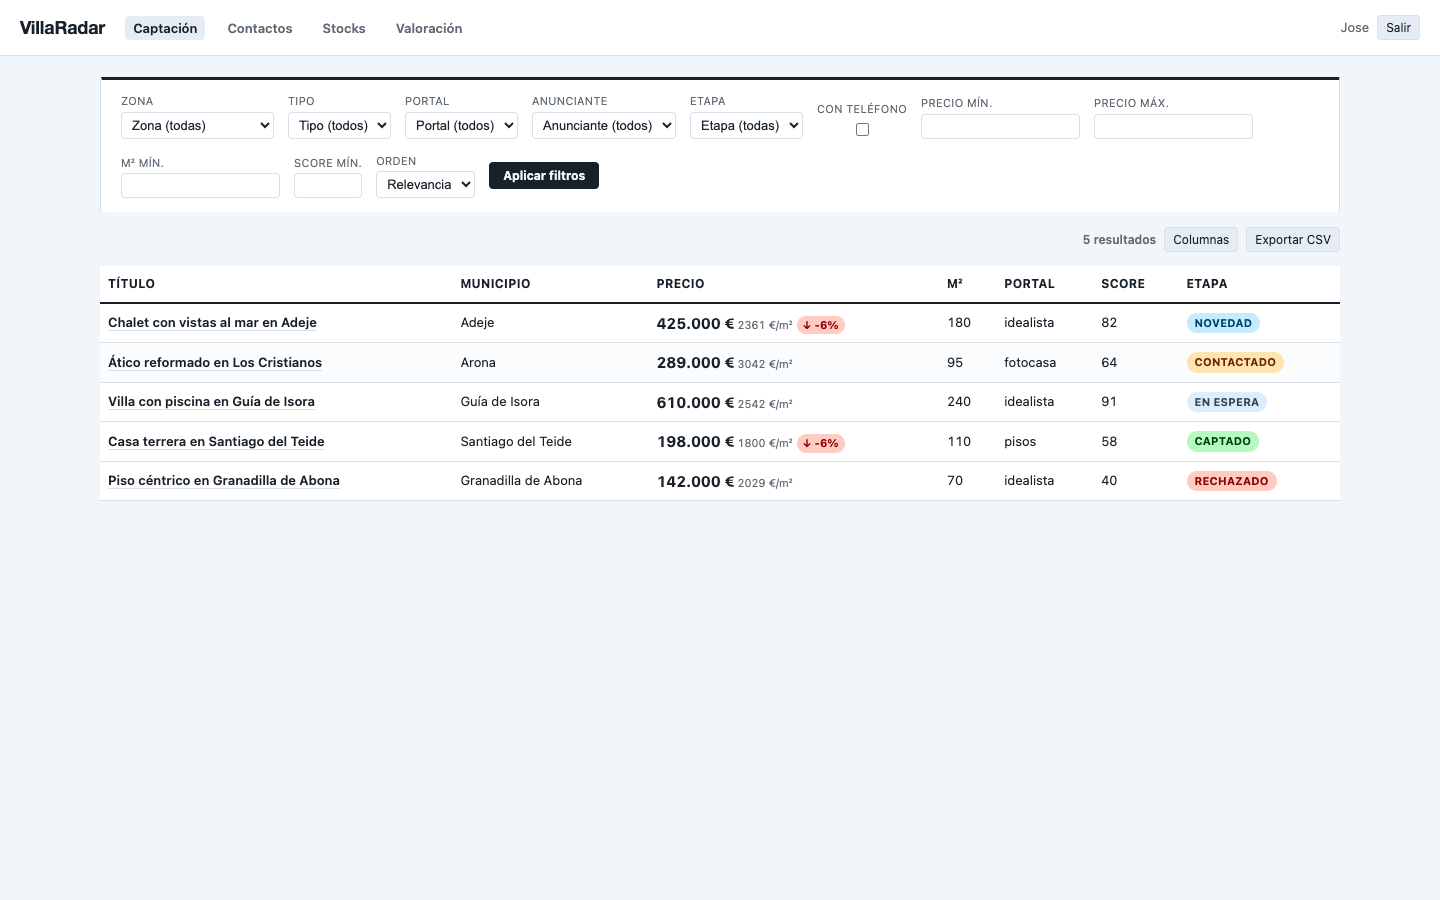
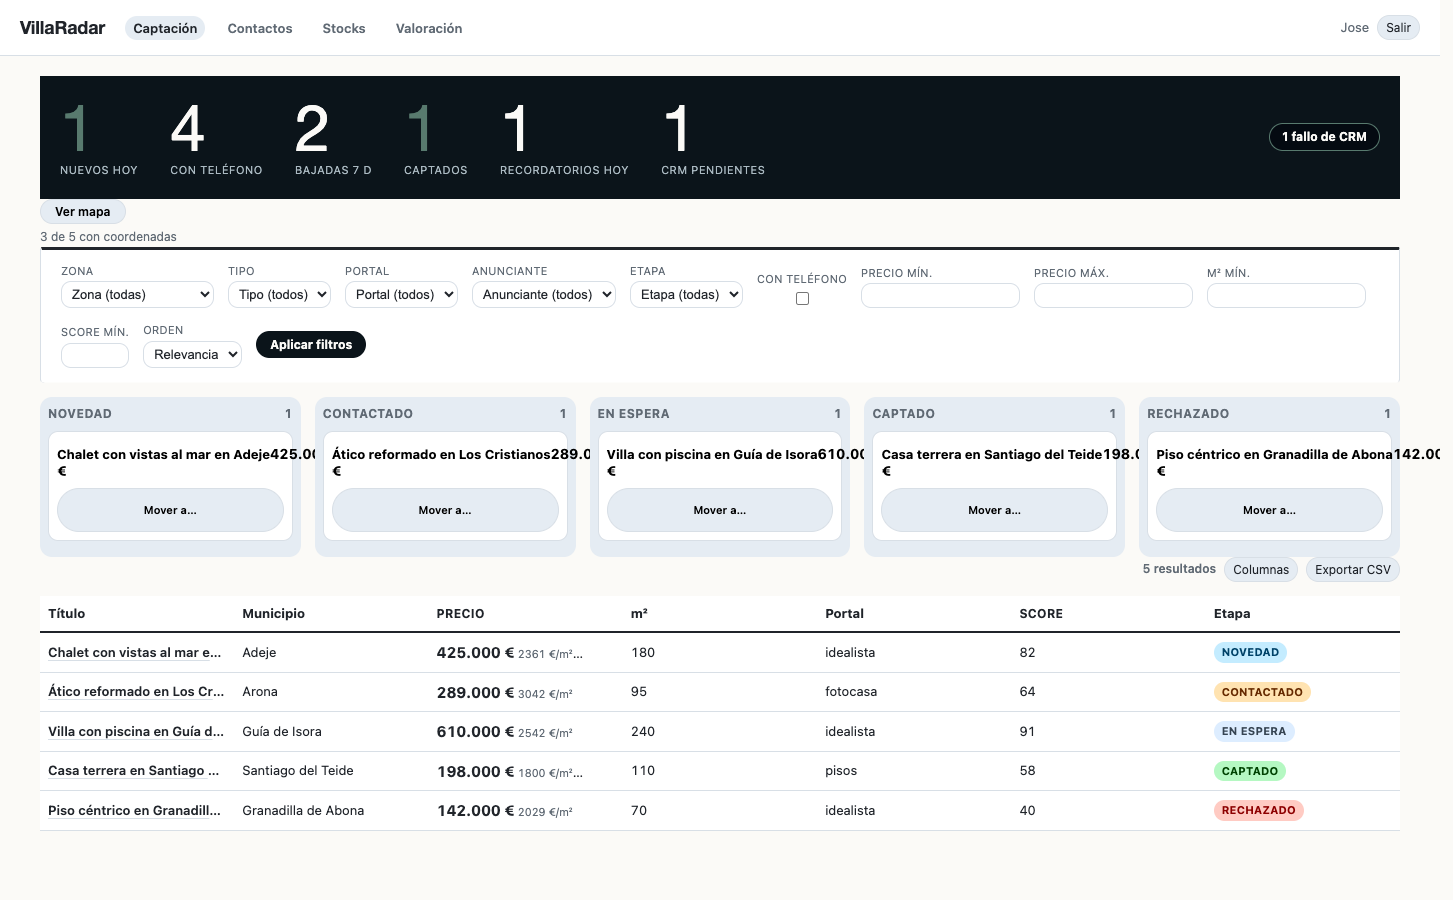
fix: añadir style-src 'self' unsafe-inline a la CSP (bloqueaba el <style> de Vite en dev) e img-src para teselas OSM y fotos de Fotocasa

diff --git a/index.html b/index.html
@@ -5,9 +5,9 @@
     <meta name="viewport" content="width=device-width, initial-scale=1" />
     <meta
       http-equiv="Content-Security-Policy"
-      content="default-src 'self'; script-src 'self'; connect-src 'self' https://villaradar.zohmip.easypanel.host; img-src 'self' data:; frame-ancestors 'none'; object-src 'none'; base-uri 'self'"
+      content="default-src 'self'; script-src 'self'; connect-src 'self' https://villaradar.zohmip.easypanel.host; img-src 'self' data: https://*.tile.openstreetmap.org https://*.fotocasa.es; style-src 'self' 'unsafe-inline'; frame-ancestors 'none'; object-src 'none'; base-uri 'self'"
     />
-    <title>VillaRadar — Captación</title>
+    <title>VillaRadar — Puesto de mando</title>
   </head>
   <body>
     <div id="app"></div>
